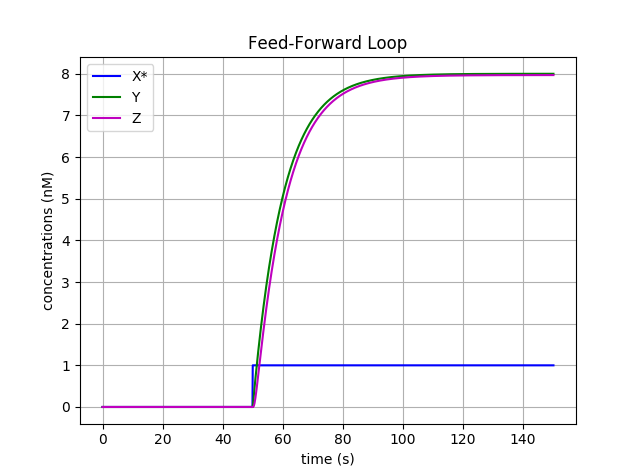
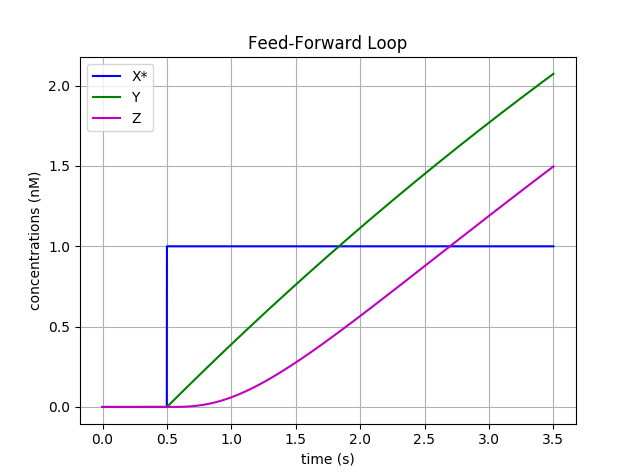
Added Detail to Feed-Forward
Added some analysis of the feed-forward loop and also reduced the time span that we're analyzing.

diff --git a/Project 2/python/main.py b/Project 2/python/main.py
@@ -49,9 +49,9 @@ for i in range(1, 2):
 
     # Calculations to do response time:
     z_fin = sol[-1, 1]
-    t_change = t[np.argwhere(X_star>0)[0,0]]
-    t_mid = t[find_nearest(sol[:, 1], z_fin/2.)]
-    print(t_mid-t_change)
+    t_change = t[np.argwhere(X_star > 0)[0, 0]]
+    t_mid = t[find_nearest(sol[:, 1], z_fin / 2.)]
+    print(t_mid - t_change)
 
 """
 Feed-Forward Loop
@@ -78,12 +78,13 @@ Z0 = 0
 yinit = [Y0, Z0]
 
 t0 = 0
-dt = .1
-tf = 150
+dt = .001
+tf = 3.5
 
 # Input variable
 for i in range(1, 2):
-    X_star = np.array([0] * 500 + [i] * 1002).T
+    X_star = np.array([0] * int(.5/dt) + [i] * int(.5/dt) + [0] * int((2.5/dt) + 2)).T #+ [i] * int((2/dt)+2)).T
+    # X_star = np.array([0] * int(.5 / dt) + [i] * int((3 / dt) + 2)).T
 
     t, sol = ode15s(feed_forward, yinit, t0, dt, tf, params, inputs=X_star)
 

diff --git a/Project 2/python/odes.py b/Project 2/python/odes.py
@@ -50,8 +50,8 @@ def feed_forward(t, y, params):
     dydt = [None] * len(y)
 
     # dydt = Y, Z
-    dydt[0] = (vy_max * (math.pow(X_star, ny))) / ((math.pow(ky, ny)) +
-                                                   (math.pow(X_star, ny))) - dy * Y
+    dydt[0] = ((vy_max * (math.pow(X_star, ny))) / ((math.pow(ky, ny)) +
+                                                   (math.pow(X_star, ny)))) - dy * Y
     dydt[1] = (vz_max
                * ((math.pow(X_star, nzx)) / ((math.pow(kzx, nzx))
                                              + (math.pow(X_star, nzx))))
